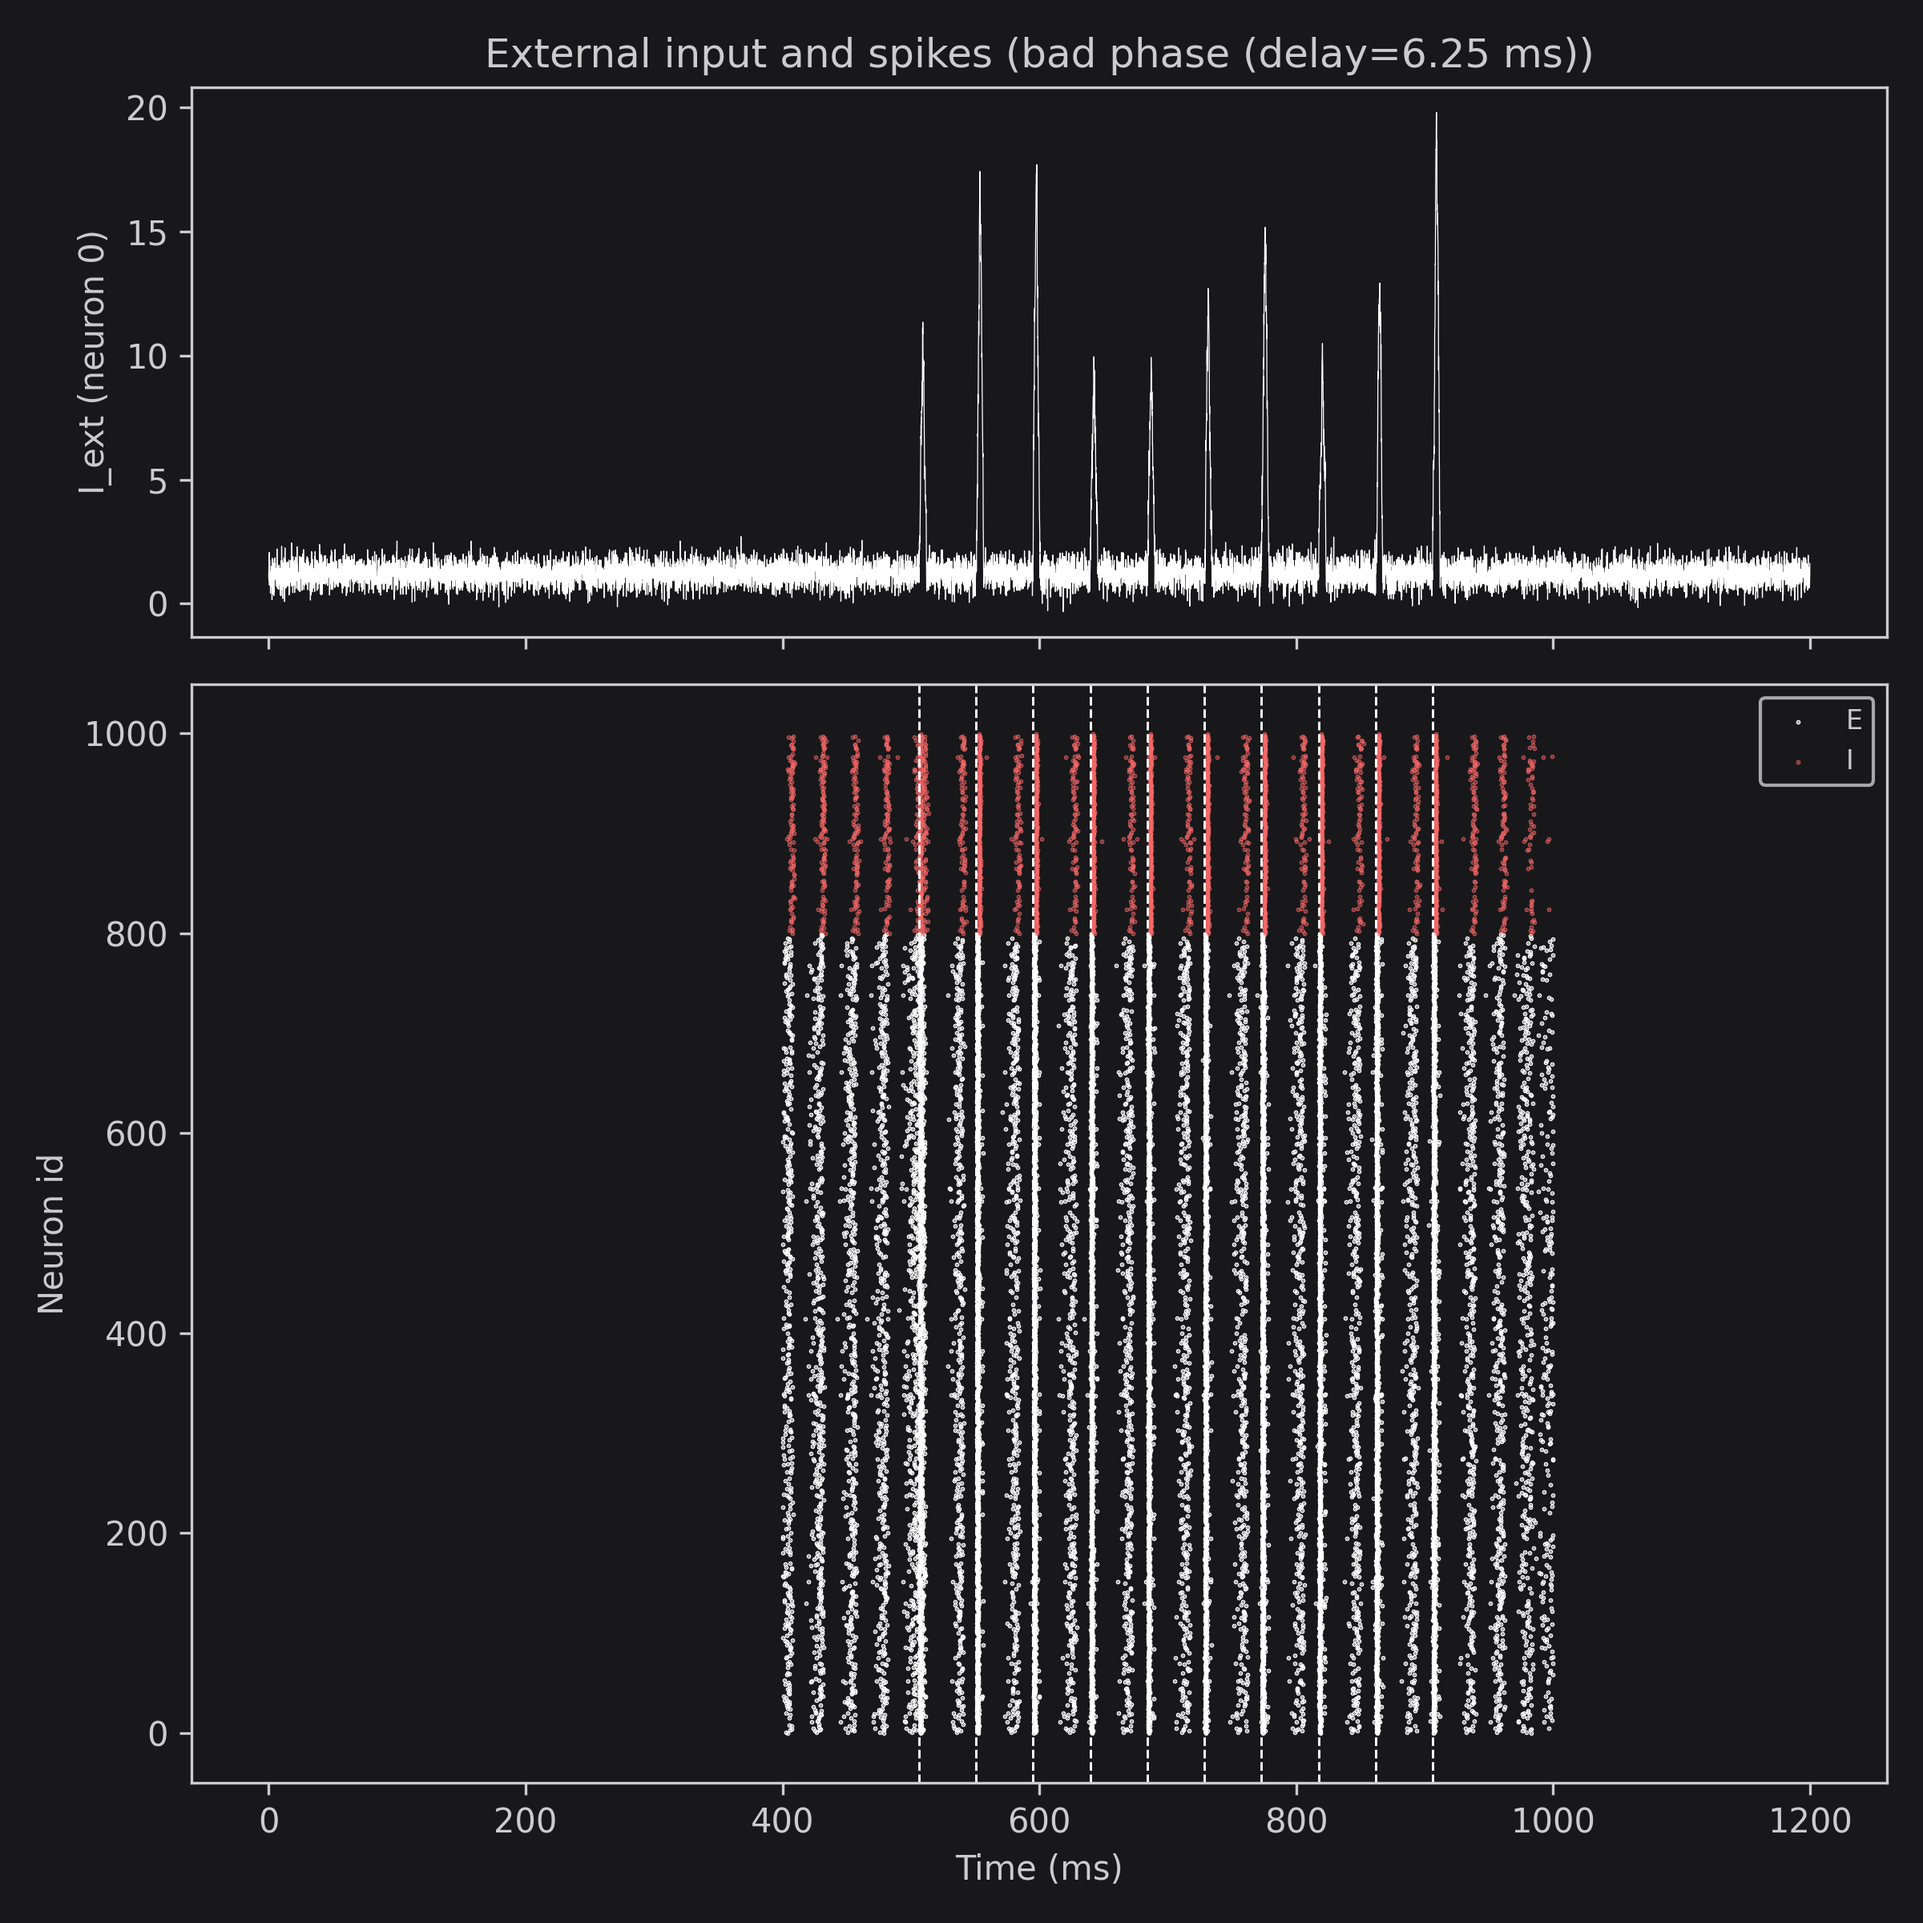
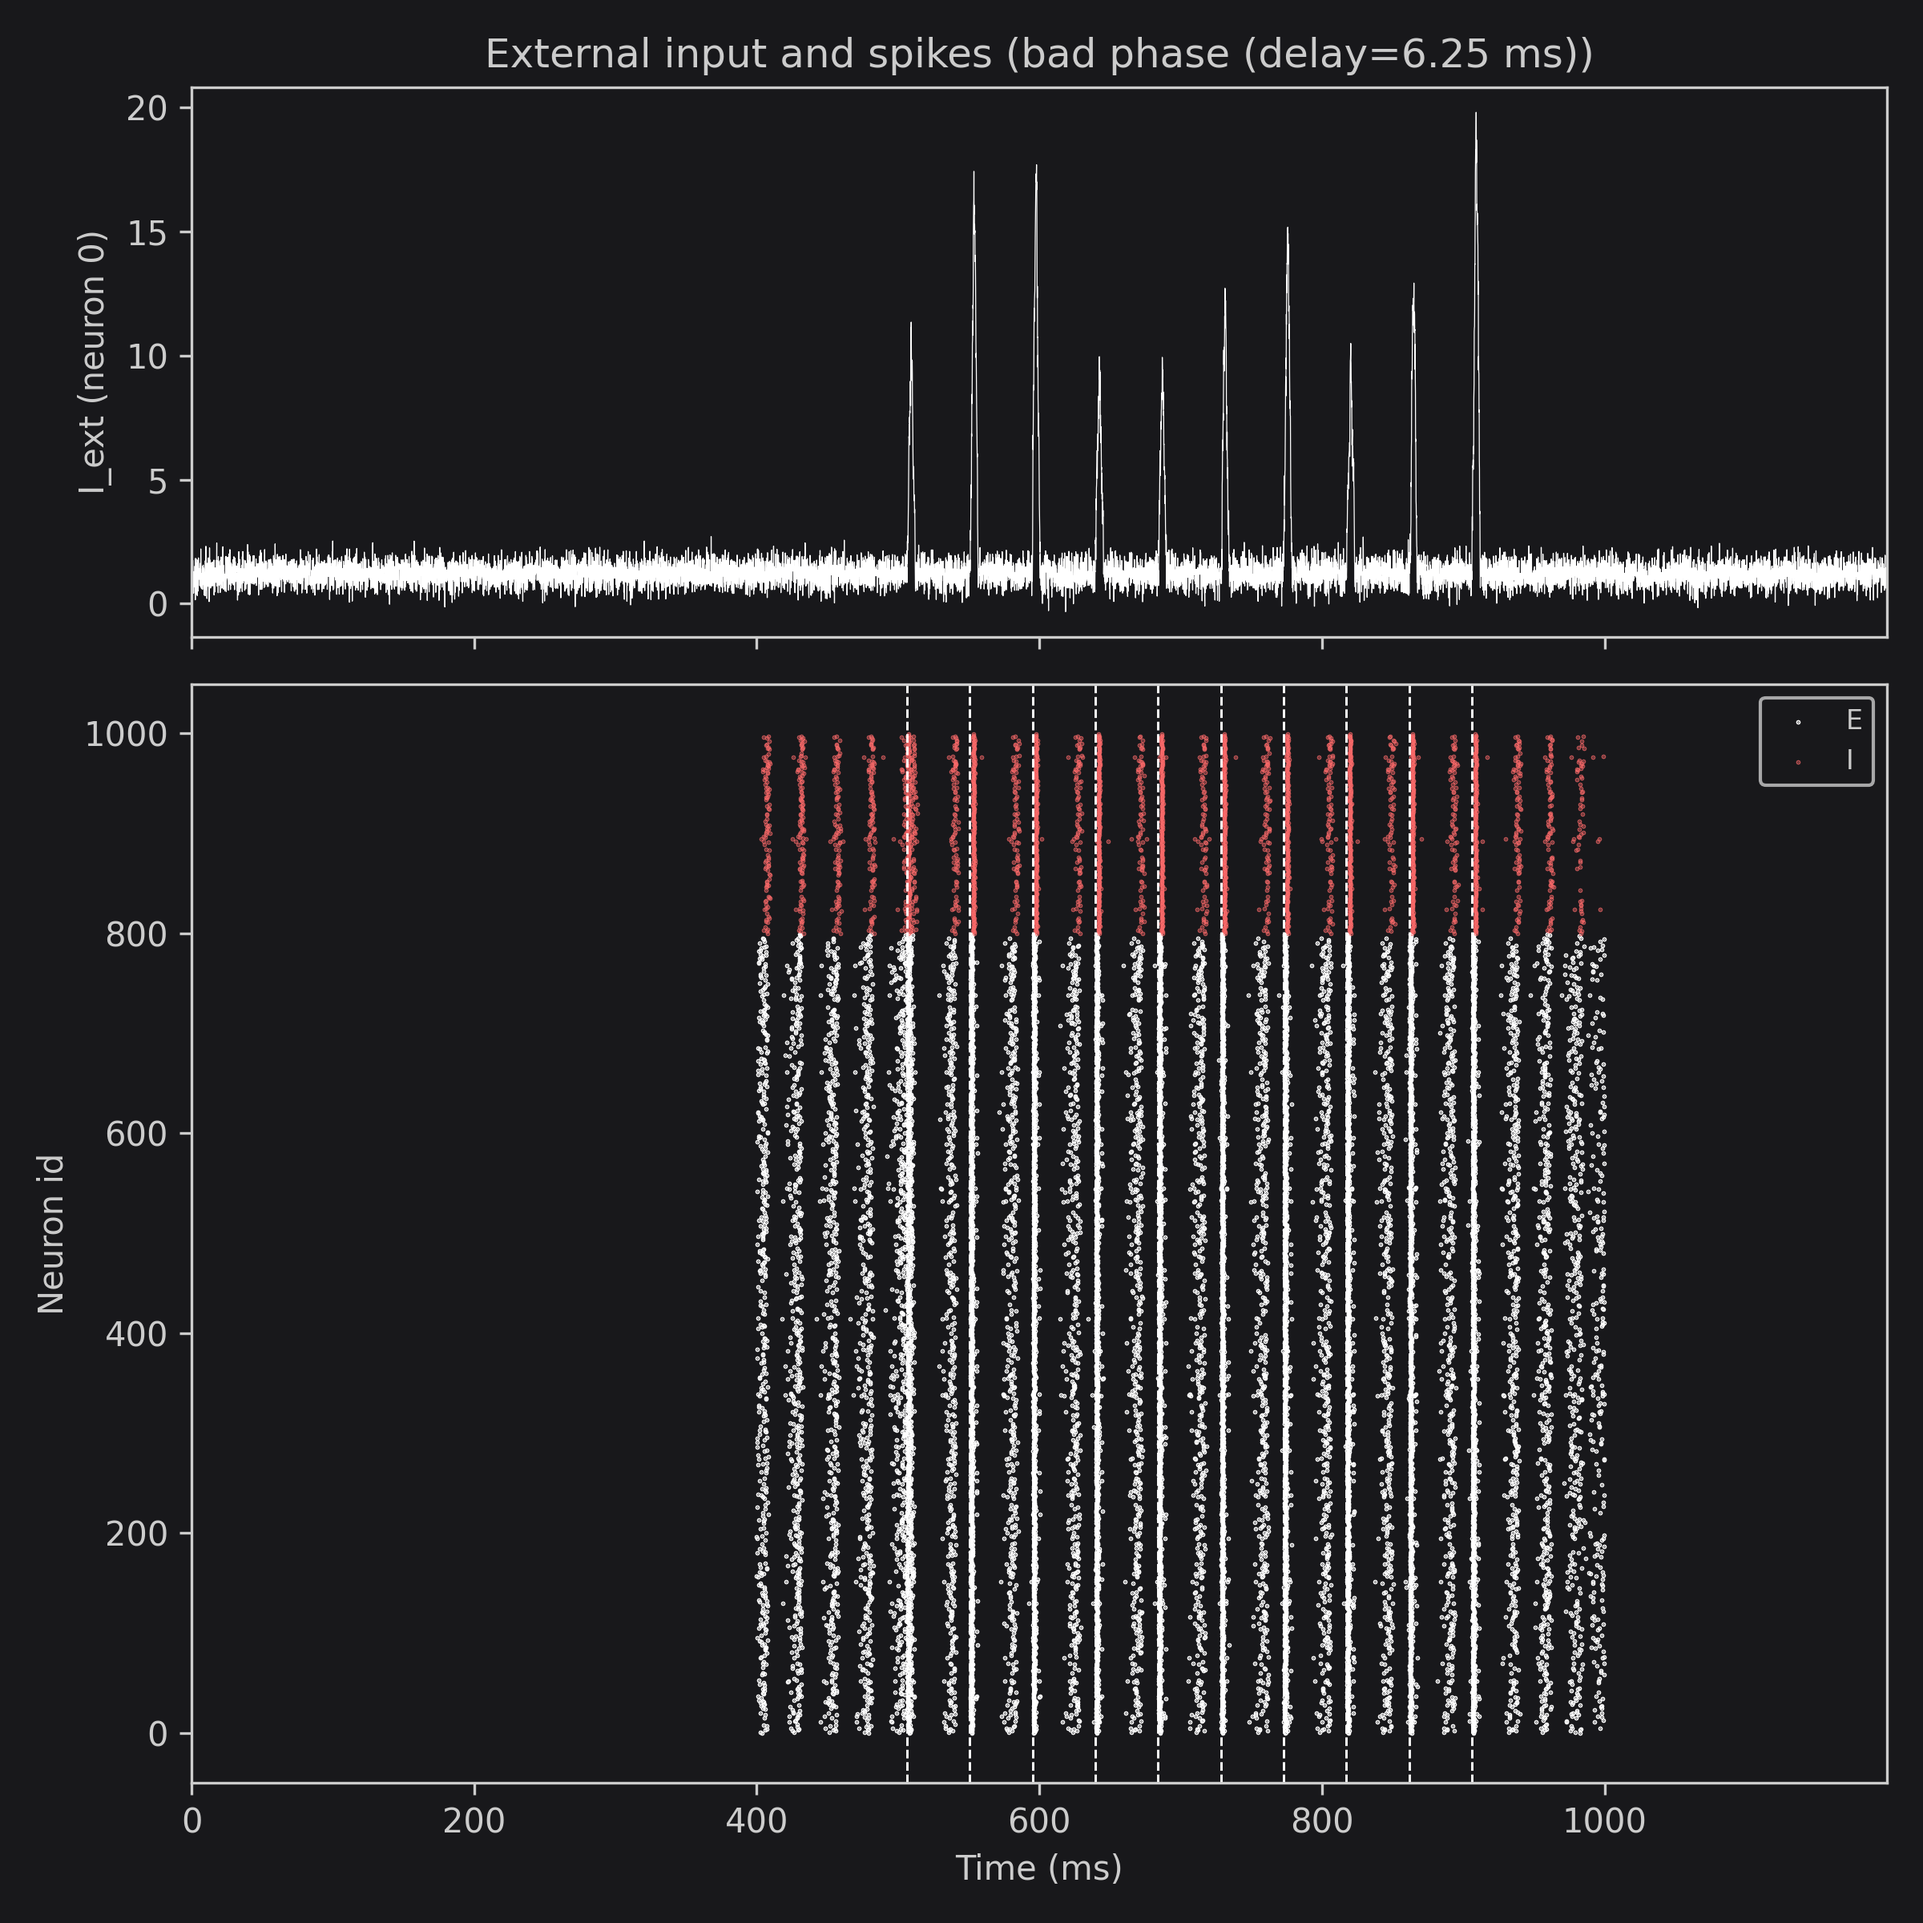
Update coupled-networks experiment with clearer phase visualization
Refactor phase trace display to separate LFP proxy signal and unwrapped phase
into distinct plots for better interpretability. Update documentation with
more detailed mathematical formulation of the receiver model, input interface,
and readout metrics. Fix raster plot x-axis alignment when external input is
provided.

🤖 Generated with [Claude Code](https://claude.com/claude-code)

diff --git a/experiments/coupled-networks/experiment.py b/experiments/coupled-networks/experiment.py
@@ -18,7 +18,7 @@ from lib.phase import estimate_phase
 from lib.input_drive import add_fiber_spikes_to_input
 
 from pinglab import run_network, inputs
-from pinglab.plots.styles import save_both
+from pinglab.plots.styles import save_both, figsize
 from pinglab.plots import save_raster
 from pinglab.utils import slice_spikes
 
@@ -178,19 +178,27 @@ def main() -> None:
         f"phase_sample={phase_trace[:5].tolist()}",
     )
 
-    def plot_phase_trace() -> None:
+    def plot_phase_signal() -> None:
         t = np.arange(phase_signal.size) * config.base.dt
-        fig, ax1 = plt.subplots(figsize=(8, 6))
-        ax1.plot(t, phase_signal, lw=0.6, label=config.phase.signal)
-        ax1.set_xlabel("Time (ms)")
-        ax1.set_ylabel("Phase signal")
-        ax2 = ax1.twinx()
-        ax2.plot(t, phase_trace, lw=0.6, alpha=0.7, label="phase (rad)")
-        ax2.set_ylabel("Phase (rad)")
-        plt.title("Receiver phase trace")
+        fig, ax = plt.subplots(figsize=figsize)
+        ax.plot(t, phase_signal, lw=0.6)
+        ax.set_xlabel("Time (ms)")
+        ax.set_ylabel("Phase signal")
+        ax.set_title("Receiver LFP proxy (g_i_mean_E)")
         plt.tight_layout()
 
-    save_both(data_path / "phase_trace.png", plot_phase_trace)
+    def plot_phase_unwrapped() -> None:
+        t = np.arange(phase_signal.size) * config.base.dt
+        phase_unwrapped = np.unwrap(phase_trace)
+        fig, ax = plt.subplots(figsize=figsize)
+        ax.plot(t, phase_unwrapped, lw=0.6)
+        ax.set_xlabel("Time (ms)")
+        ax.set_ylabel("Phase (rad, unwrapped)")
+        ax.set_title("Receiver phase (unwrapped)")
+        plt.tight_layout()
+
+    save_both(data_path / "phase_signal.png", plot_phase_signal)
+    save_both(data_path / "phase_unwrapped.png", plot_phase_unwrapped)
 
     target_mask = np.zeros(config.base.N_E, dtype=bool)
     for fiber_targets in projection:
@@ -299,7 +307,7 @@ def main() -> None:
             )
 
     def plot_response_curves() -> None:
-        fig, ax = plt.subplots(figsize=(8, 6))
+        fig, ax = plt.subplots(figsize=figsize)
         for j, jitter in enumerate(jitters):
             ax.plot(delays, responses[j, :], marker="o", label=f"jitter={jitter:.1f} ms")
         ax.set_xlabel("Delay (ms)")

diff --git a/pinglab/src/pinglab/plots/raster.py b/pinglab/src/pinglab/plots/raster.py
@@ -89,6 +89,9 @@ def save_raster(
             for vline in vertical_lines:
                 ax_ras.axvline(vline, linestyle="--", lw=0.7)
 
+        if time is not None:
+            ax_ras.set_xlim(time[0], time[-1])
+
         ax_ras.set_xlabel("Time (ms)")
         ax_ras.set_ylabel("Neuron id")
 

diff --git a/TODO.md b/TODO.md
@@ -1,0 +1,2 @@
+
+1. save_raster with external input should share xaxis, currently external input plot wider and we dont want that
